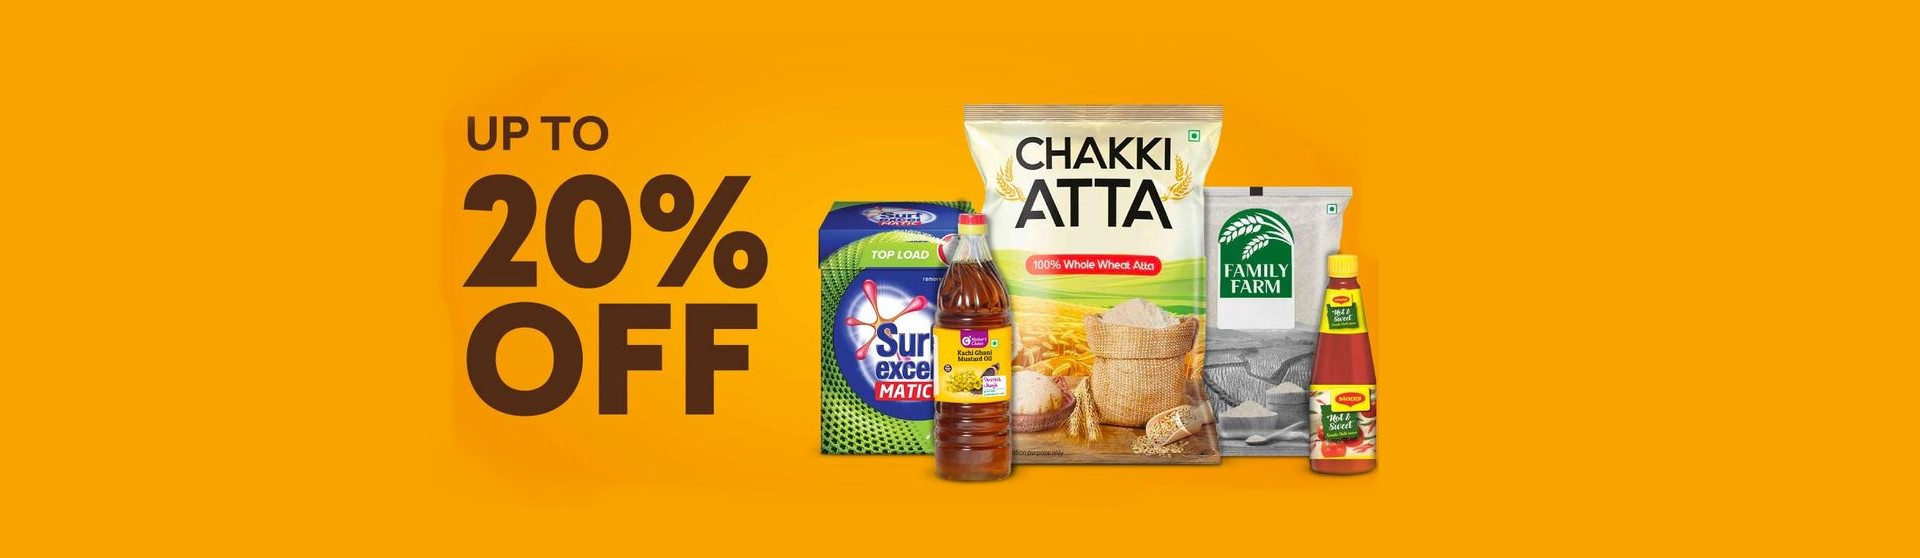
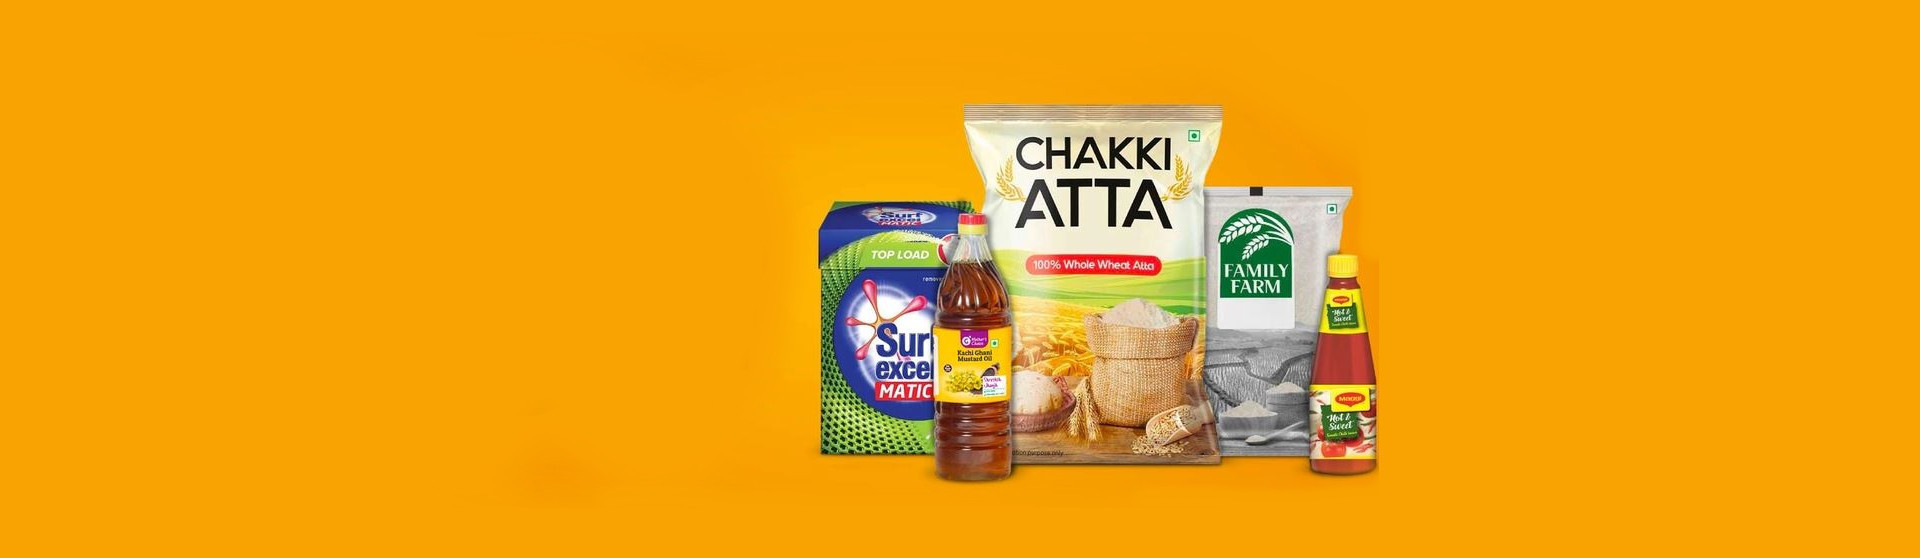
changes

Changed region(s): [[0.2188, 0.3047, 0.4062, 0.7616], [0.2188, 0.1828, 0.3438, 0.2742]]

diff --git a/application/views/layout/header.php b/application/views/layout/header.php
@@ -194,63 +194,9 @@
                                                         <font>My Cart</font>
                                                         <i class="fa fa-shopping-cart"></i><span>{{globleCartData.total_quantity}}</span>
                                                     </a>
-                                                    <ul ng-if="globleCartData.total_quantity" class="">
-                                                        <li  ng-repeat="product in globleCartData.products">
-
-                                                            <div class="cart-single-product">
-                                                                <div class="media">
-                                                                    <div class="pull-left cart-product-img">
-                                                                        <a href="#">
-
-                                                                            <img class="img-responsive" alt="product" src="{{product.file_name}}" style="height: 80px;" />
-                                                                        </a>
-                                                                    </div>
-                                                                    <div class="media-body cart-content">
-                                                                        <ul>
-                                                                            <li>
-                                                                                <h2 ><a href="#" style="">{{product.title}}</a></h2>
-                                                                                <h3>                                                                 
-                                                                                    <p>
-                                                                                        {{product.quantity}} X  {{product.price|currency}} 
-                                                                                    </p>
-                                                                                </h3>
-                                                                                <div  class="input-group cart-area-inc input-group-sm searchinputgroup">
-                                                                                    <span class="input-group-btn input-group-sm">
-                                                                                        <button class="btn btn-default  type="button" ng-click="updateCart(product, 'sub')">-</button>
-                                                                                    </span>
-
-                                                                                    <span class="cartquantitysearch"> {{product.quantity}} </span>
-                                                                                    <span class="input-group-btn input-group-sm" >
-                                                                                        <button class="btn btn-default   incbutton" type="button" ng-click="updateCart(product, 'add')">+</button>
-                                                                                    </span>
-                                                                                </div>
-                                                                            </li>
-                                                                            <li>
-
-                                                                            </li>
-                                                                            <li>
-                                                                                <p></p>
-                                                                            </li>
-                                                                            <li>
-                                                                                <a class="trash" href="#." ng-click="removeCart(product.product_id)"><i class="fa fa-trash-o"></i></a>
-                                                                            </li>
-                                                                        </ul>
-                                                                    </div>
-                                                                </div>
-                                                            </div>
-                                                        </li>
-
-                                                        <li>
-                                                            <span><span>Sub Total</span></span><span>{{globleCartData.sub_total_price|currency}}</span>
-
-                                                        </li>
-                                                        <li>
-                                                            <ul class="checkout">
-                                                                <li><a href="<?php echo site_url("Cart/details"); ?>" class="btn-checkout"><i class="fa fa-shopping-cart" aria-hidden="true"></i>View Cart</a></li>
-                                                                <!--<li><a href="<?php echo site_url("Cart/checkoutInit"); ?>" class="btn-checkout"><i class="fa fa-share" aria-hidden="true"></i>Checkout</a></li>-->
-                                                            </ul>
-                                                        </li>
-                                                    </ul>
+                                                    <?php
+                                                    $this->load->view('layout/topcart');
+                                                    ?>
                                                 </div>
                                             </li>
 
@@ -334,57 +280,9 @@
 
                                                             <i class="fa fa-shopping-cart"></i><span>{{globleCartData.total_quantity}}</span>
                                                         </a>
-                                                        <ul ng-if="globleCartData.total_quantity">
-                                                            <li  ng-repeat="product in globleCartData.products">
-
-                                                                <div class="cart-single-product">
-                                                                    <div class="media">
-                                                                        <div class="pull-left cart-product-img">
-                                                                            <a href="#">
-
-                                                                                <img class="img-responsive" alt="product" src="{{product.file_name}}">
-                                                                            </a>
-                                                                        </div>
-                                                                        <div class="media-body cart-content">
-                                                                            <ul>
-                                                                                <li>
-                                                                                    <h2 style="    white-space: nowrap;
-                                                                                        overflow: hidden;
-                                                                                        text-overflow: ellipsis;
-                                                                                        width: 250px;"><a href="#" style="">{{product.title}}</a></h2>
-                                                                                    <h3>                                                                 
-                                                                                        <p>
-                                                                                            {{product.quantity}} X  {{product.price|currency}} 
-                                                                                        </p>
-                                                                                    </h3>
-
-                                                                                </li>
-                                                                                <li>
-
-                                                                                </li>
-                                                                                <li>
-                                                                                    <p></p>
-                                                                                </li>
-                                                                                <li>
-                                                                                    <a class="trash" href="#." ng-click="removeCart(product.product_id)"><i class="fa fa-trash-o"></i></a>
-                                                                                </li>
-                                                                            </ul>
-                                                                        </div>
-                                                                    </div>
-                                                                </div>
-                                                            </li>
-
-                                                            <li>
-                                                                <span><span>Sub Total</span></span><span>{{globleCartData.total_price|currency}}</span>
-
-                                                            </li>
-                                                            <li>
-                                                                <ul class="checkout">
-                                                                    <li><a href="<?php echo site_url("Cart/details"); ?>" class="btn-checkout"><i class="fa fa-shopping-cart" aria-hidden="true"></i>View Cart</a></li>
-                                                                    <!--<li><a href="<?php echo site_url("Cart/checkoutInit"); ?>" class="btn-checkout"><i class="fa fa-share" aria-hidden="true"></i>Checkout</a></li>-->
-                                                                </ul>
-                                                            </li>
-                                                        </ul>
+                                                        <?php
+                                                        $this->load->view('layout/topcart');
+                                                        ?>
                                                     </div>
                                                 </li>
 

diff --git a/application/views/layout/topcart.php b/application/views/layout/topcart.php
@@ -1,0 +1,57 @@
+<ul ng-if="globleCartData.total_quantity" class="">
+    <li  ng-repeat="product in globleCartData.products">
+
+        <div class="cart-single-product">
+            <div class="media">
+                <div class="pull-left cart-product-img">
+                    <a href="#">
+
+                        <img class="img-responsive" alt="product" src="{{product.file_name}}" style="height: 80px;" />
+                    </a>
+                </div>
+                <div class="media-body cart-content">
+                    <ul>
+                        <li>
+                            <h2 ><a href="#" style="">{{product.title}}</a></h2>
+                            <h3>                                                                 
+                                <p>
+                                    {{product.quantity}} X  {{product.price|currency}} 
+                                </p>
+                            </h3>
+                            <div  class="input-group cart-area-inc input-group-sm searchinputgroup">
+                                <span class="input-group-btn input-group-sm">
+                                    <button class="btn btn-default"  type="button" ng-click="updateCart(product, 'sub')">-</button>
+                                </span>
+
+                                <span class="cartquantitysearch"> {{product.quantity}} </span>
+                                <span class="input-group-btn input-group-sm" >
+                                    <button class="btn btn-default   incbutton" type="button" ng-click="updateCart(product, 'add')">+</button>
+                                </span>
+                            </div>
+                        </li>
+                        <li>
+
+                        </li>
+                        <li>
+                            <p></p>
+                        </li>
+                        <li>
+                            <a class="trash" href="#." ng-click="removeCart(product.product_id)"><i class="fa fa-trash-o"></i></a>
+                        </li>
+                    </ul>
+                </div>
+            </div>
+        </div>
+    </li>
+
+    <li>
+        <span><span>Sub Total</span></span><span>{{globleCartData.sub_total_price|currency}}</span>
+
+    </li>
+    <li>
+        <ul class="checkout">
+            <li><a href="<?php echo site_url("Cart/details"); ?>" class="btn-checkout"><i class="fa fa-shopping-cart" aria-hidden="true"></i>View Cart</a></li>
+            <li><a href="<?php echo site_url("Cart/checkoutInit"); ?>" class="btn-checkout"><i class="fa fa-share" aria-hidden="true"></i>Checkout</a></li>
+        </ul>
+    </li>
+</ul>

diff --git a/application/views/Email/order_mail.php b/application/views/Email/order_mail.php
@@ -86,12 +86,24 @@
             </table>
             <table class="detailstable" align="center" border="0" cellpadding="0" cellspacing="0" width="700" style="background: #fff">
                 <tr>
+                    <td style="font-size: 12px;width: 50%;padding: 2px 20px;" >
+                        <b>Shipping Address</b><hr/>
+                    </td>
+
+                    <td style="font-size: 12px;width: 50%;padding: 2px 20px;" >
+
+                        <b>Order Information</b><hr/>
+
+                    </td>
+                </tr>
+                <tr>
+
                     <td style="font-size: 12px;width: 50%" >
-                        <b>Shipping Address</b><br/><hr/>
+
                         <span style="text-transform: capitalize;margin-top: 10px;"> 
                             <?php echo $order_data->name; ?>
                         </span> <br/>
-                        <div style="    padding: 5px 0px;">
+                        <div style="    padding: 5px 0px;font-size: 10px">
                             <?php echo $order_data->address1; ?><br/>
                             <?php echo $order_data->address2; ?><br/>
                             <?php echo $order_data->state; ?>
@@ -116,11 +128,7 @@
                     <td style="font-size: 12px;width: 50%" >
 
                         <table class="gn_table">
-                            <tr>
-                                <td colspan="2">
-                                    <b>Order Information</b><br/><hr/>
-                                </td>
-                            </tr>
+
                             <tr>
                                 <th>Order No.</th>
                                 <td>: <?php echo $order_data->order_no; ?> </td>
@@ -194,13 +202,13 @@
                             <?php echo $product->total_price; ?>
                         </td>
                     </tr>
-                    
+
                     <?php
                 }
                 ?>
                 <!--end of cart details-->
 
-                
+
 
 
                 <tr>
@@ -232,7 +240,10 @@
                     <td colspan="6" style="font-size: 12px;">
 
 
-                        <?php echo EMAIL_FOOTER; ?>
+
+                       <?php echo EMAIL_FOOTER;?>
+
+
 
                         <br/>
                         <span style="    text-align: center;

diff --git a/application/views/CartGuest/checkoutShipping.php b/application/views/CartGuest/checkoutShipping.php
@@ -72,6 +72,10 @@ $this->load->view('layout/header');
         margin: 0px;
     }
 
+    .freeshippingnote{
+        color:red;
+    }
+    
 </style>
 
 
@@ -152,8 +156,8 @@ $this->load->view('layout/header');
                                                 <p>
                                                     <?php echo $value['address1']; ?>,<br/>
                                                     <?php echo $value['address2']; ?>,<br/>
-                                                    <?php echo $value['city']; ?>
-
+                                                    <?php echo $value['city']; ?><br/>
+ <?php echo $value['zipcode']=='on'?'<span class="freeshippingnote">Free shipping at Tsim Sha Tsui<span>':''; ?>
                                                 </p>
                                             </div>
                                         </div>
@@ -278,13 +282,24 @@ $this->load->view('Cart/noproduct');
                                     <input type="hidden" required="" name="state" class="form-control woocommerce-Input woocommerce-Input--email input-text" value="" style="height: 10%;">
 
 
-                                    <input type="hidden"  name="zipcode" class="form-control " value="" style="height: 10%;">
 
 
                                     <input type="hidden" required="" name="country" class="form-control" value="" style="height: 10%;">
 
 
                                     <input type="text" required="" name="city" class="form-control woocommerce-Input woocommerce-Input--email input-text" value="" style="height: 10%;">
+                                </td>
+                            </tr>
+                            <tr>
+                                <td style="line-height: 25px;" colspan="2">
+                                    <div class="checkbox">
+                                        <label>
+                                            <input type="checkbox" name="zipcode"> Please check if address belongs to Tsim Sha Tsui
+
+                                        </label>
+                                    </div>
+                                 
+
                                 </td>
                             </tr>
 

diff --git a/application/views/home.php b/application/views/home.php
@@ -55,7 +55,7 @@ foreach ($sliders as $key => $value) {
                 <div class="slider-content t-lfr s-tb slider-3">
                     <div class="title-container s-tb-c">
                         <h2 class="title1">SHOP ORGANIC PRODUCT
-                            <br/><span>Upto 20% OFF</span> <br>on Every purchase
+                            <br/> Fruits,Oils, Ghee & Much More
                         </h2>
                         <a href="<?php echo site_url('Product/productList/1/19');?>" class="btn-shop-now-fill-slider">Shop Now</a>
                     </div>
@@ -76,7 +76,7 @@ foreach ($sliders as $key => $value) {
 
             <div id="slider-direction-3" class="t-cn slider-direction">
                 <div class="slider-content t-lfr s-tb slider-3">
-                    <div class="title-container s-tb-c">
+                    <div class="title-container s-tb-c">`
                         <h2 class="title1" style="font-size: 23px;">
                             <span style="font-size: 40px;">
                             </span> 
@@ -99,9 +99,8 @@ foreach ($sliders as $key => $value) {
             <div id="slider-direction-5" class="t-cn slider-direction">
                 <div class="slider-content t-lfr s-tb slider-3">
                     <div class="title-container s-tb-c">
-                        <h2 class="title1">SHOP KITCHEN PRODUCT
-                            <br/><span>Upto 20% OFF</span> <br>on Every purchase
-                        </h2>
+                        <h2 class="title1" style="font-size: 22px"> Top quality pulses and food grains, dairy products
+                            <br/><span style="font-size: 20px">Fresh Fruits and Vegetables</span>                         </h2>
                         <a href="<?php echo site_url('Product/productList/1/19');?>" class="btn-shop-now-fill-slider">Shop Now</a>
                     </div>
                 </div>

diff --git a/application/controllers/Api.php b/application/controllers/Api.php
@@ -47,6 +47,14 @@ class Api extends REST_Controller {
         if ($session_cart['total_price'] > 299) {
             $session_cart['shipping_price'] = 0;
         }
+        
+        $user_address_details = $this->session->userdata('shipping_address');
+        if($user_address_details){
+            if ($user_address_details['zipcode'] == 'on') {
+                $session_cart['shipping_price'] = 0;
+            }
+        }
+        
         $session_cart['sub_total_price'] = $session_cart['total_price'];
 
         $session_cart['total_price'] = $session_cart['total_price'] + $session_cart['shipping_price'];

diff --git a/application/controllers/CartGuest.php b/application/controllers/CartGuest.php
@@ -187,9 +187,14 @@ class CartGuest extends CI_Controller {
             if ($session_cart['total_price'] > 299) {
                 $session_cart['shipping_price'] = 0;
             }
+            if ($address['zipcode'] == 'on') {
+                $session_cart['shipping_price'] = 0;
+            }
             $session_cart['sub_total_price'] = $session_cart['total_price'];
 
             $session_cart['total_price'] = $session_cart['total_price'] + $session_cart['shipping_price'];
+
+
 
 
             $sub_total_price = $session_cart['sub_total_price'];
